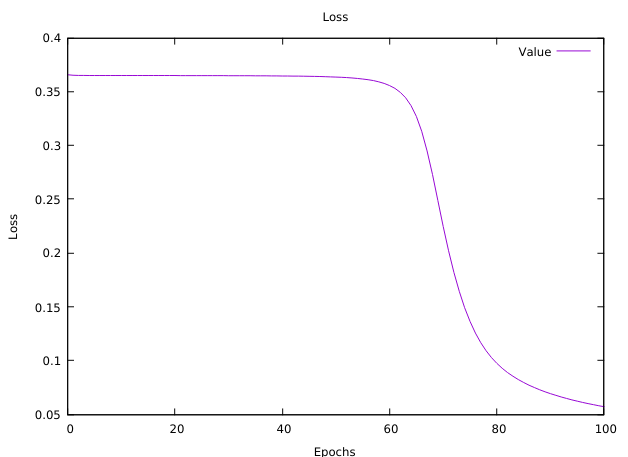
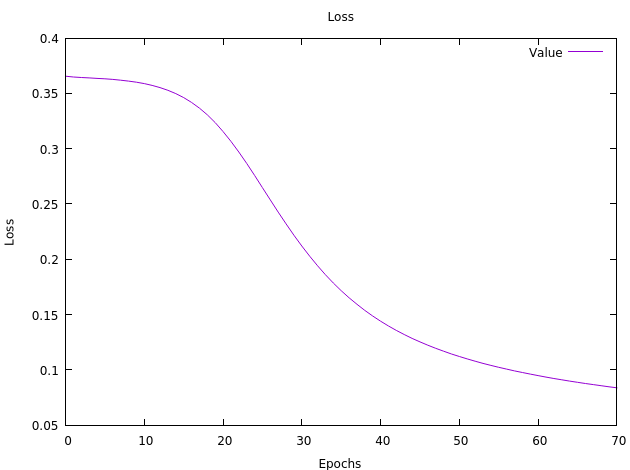
readme links

diff --git a/nn/README.md b/nn/README.md
@@ -1,11 +1,16 @@
 # Neural Network
 Neural Network [Perceptron Multilayer in Cuda]
 
+[Content](#neural-network)
 - [Code](#code)
 - [How to run](#how-to-run)
 - [Images](#images)
 
 ## Code
+
+### Inspired by
+- [Cuda Neural Network](http://luniak.io/cuda-neural-network-implementation-part-1/)
+- [Snake Game Keras](https://theailearner.com/2018/04/19/snake-game-with-deep-learning/)
 
 ### Main
 
@@ -94,7 +99,7 @@ public:
 ```bash
 $ cd folder name
 $ make
-$ ./main.out epochs # 101
+$ ./main.out epochs # 71
 ```
 
 ## Images
